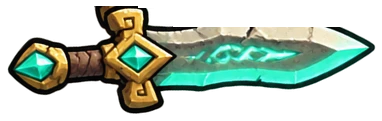
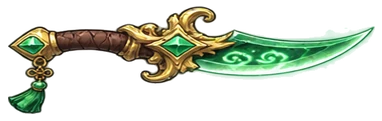
Redraw eight ancient weapons and refine wrist and mount layering

diff --git a/public/game.html b/public/game.html
@@ -509,7 +509,7 @@ async function idbAll(){const db=await idb();return new Promise(res=>{const out=
 async function idbPut(k,v){const db=await idb();return new Promise(res=>{const tx=db.transaction('a','readwrite');tx.objectStore('a').put(v,k);tx.oncomplete=()=>res();tx.onerror=()=>res()})}
 async function idbDel(k){const db=await idb();return new Promise(res=>{const tx=db.transaction('a','readwrite');tx.objectStore('a').delete(k);tx.oncomplete=()=>res();tx.onerror=()=>res()})}
 const BAKED={};
-async function loadAssets(){try{const r=await fetch('assets/manifest.json',{cache:'no-cache'});if(r.ok){const j=await r.json();for(const f of(j.files||[])){const n=f.replace(/\.(png|webp|jpe?g|gif)$/i,'');BAKED[n]='assets/'+f;setAsset(n,'assets/'+f+(n==='bld_fire'?'?v=2041':/^hero_/.test(n)?'?v=2040':/^(tile|obs)/.test(n)?'?v=2037':''))}}}catch(e){}
+async function loadAssets(){try{const r=await fetch('assets/manifest.json',{cache:'no-cache'});if(r.ok){const j=await r.json();for(const f of(j.files||[])){const n=f.replace(/\.(png|webp|jpe?g|gif)$/i,'');BAKED[n]='assets/'+f;setAsset(n,'assets/'+f+(n==='bld_fire'?'?v=2041':/^wpn_.*_5$/.test(n)?'?v=2057':/^hero_/.test(n)?'?v=2040':/^(tile|obs)/.test(n)?'?v=2037':''))}}}catch(e){}
  try{for(const[k,v]of await idbAll()){LOCAL[k]=1;setAsset(k,URL.createObjectURL(v))}}catch(e){}}
 const SHAPE={sprout:'머리에 새싹 잎이 난 동글동글한 몸',slime:'말랑한 젤리 슬라임',mush:'버섯 갓을 쓴 작은 몸',spider:'다리 8개 달린 벌레형',golem:'큼직한 돌덩이 골렘',tall:'키 큰 인간형(로브·갑옷)',bat:'날개를 편 박쥐형',chest:'보물상자(때리면 부서짐)',cactus:'선인장'};
 const HERO_LOOK={archer:'초록 후드와 가죽 조끼의 견습 궁수',farmer:'밀짚모자와 멜빵바지의 농부',mage:'파란 뾰족 모자와 로브의 수습 마법사',miner:'노란 안전모와 헤드랜턴, 갈색 작업복의 광부',monk:'주황 승복과 민머리의 수도승',pirate:'삼각 해적모자와 빨간 두건, 안대의 해적',viking:'뿔 달린 투구와 털망토, 갈색 수염의 바이킹',samurai:'빨간 일본 갑옷과 투구의 사무라이',icewitch:'하늘색 마녀 모자와 얼음 결정 장식 로브의 마녀',dragon:'붉은 용비늘 갑옷과 용머리 투구의 용기사',adv:'얼굴 없는 노란 마네킹 같은 기본 캐릭터, 몸 전체가 노란색',knight:'은색 갑옷, 가슴에 파란 천, 빨간 깃털 달린 투구',rogue:'짙은 보라색 후드와 옷, 어두운 얼굴에 빛나는 노란 눈 두 개'};
@@ -1751,7 +1751,13 @@ function gripInfo(im,k){let r=GI.get(im);if(r)return r;r={gx:GRIP[k]||.14,gy:.5,
  }catch(e){}GI.set(im,r);return r}
 const PISTOL_GRIPS=[[.19,.65],[.18,.67],[.115,.67],[.165,.70],[.16,.64]];
 const BUILTIN_GRIP={dagger:.235,sword:.22,mace:.23,spear:.27,axe:.23,bow:.235,staff:.235};
+const ANCIENT_GRIP={dagger:[.21,.12],sword:[.21,.12],mace:[.27,.16],spear:[.32,.20],axe:[.30,.20],bow:[.23,.45],gun:[.21,.21],staff:[.29,.18]};
 function weaponGrip(im,k,gr){
+ if(gr===5&&ANCIENT_GRIP[k]&&!LOCAL['wpn_'+k+'_5']&&AI('wpn_'+k+'_5')===im){
+  const [gx,bx]=ANCIENT_GRIP[k];
+  const gy=k==='gun'? .69:gripY(im,gx);
+  return{gx,gy,bx,by:k==='bow'?gripY(im,bx):gy,th:k==='gun'?.16:.12};
+ }
  if(!LOCAL['wpn_'+k+'_'+gr]&&(AI('wpn_'+k+'_'+gr)||!LOCAL['wpn_'+k])){
   if(k==='gun'){const [gx,gy]=PISTOL_GRIPS[gr]||PISTOL_GRIPS[0];return{gx,gy,th:.16,bx:gx,by:gy}}
   const gx=BUILTIN_GRIP[k]||.23,gy=gripY(im,gx);
@@ -1893,11 +1899,23 @@ function drawPlayer(){if(P.dead)return;const x=P.x,y=P.y,mv=P.moving,k=wType(),g
  fhx=fs.x+Math.cos(ua)*l1+Math.cos(ua+ea)*l2;
  fhy=fs.y+Math.sin(ua)*l1+Math.sin(ua+ea)*l2;
  const tx=fhx+Math.cos(wa)*off-Math.sin(wa)*pp,ty=fhy+Math.sin(wa)*off+Math.cos(wa)*pp;
+ let supportAngle=wa-Math.PI/2;
+ const supportSize=HI.fist*.96, supportDepth=supportSize*.34;
+ let backPose;
+ if(two){
+  // Solve the wrist under the cuff while keeping the glove in line with the forearm.
+  for(let i=0;i<3;i++){
+   const wx=tx-Math.cos(supportAngle)*supportDepth,wy=ty-Math.sin(supportAngle)*supportDepth;
+   backPose=IK(bs.x,bs.y,wx,wy,l1,l2);
+   const forearm=backPose[0]+backPose[1];
+   const turn=Math.atan2(Math.sin(forearm-supportAngle),Math.cos(forearm-supportAngle));
+   supportAngle+=turn*.8;
+  }
+  backPose=IK(bs.x,bs.y,tx-Math.cos(supportAngle)*supportDepth,ty-Math.sin(supportAngle)*supportDepth,l1,l2);
+  supportAngle=backPose[0]+backPose[1];
+ }
  const drawBack=()=>{
-  if(!two)return;
-  const wrist=rearWrist(fhx,fhy);
-  const [angle,bend]=IK(bs.x,bs.y,wrist.x,wrist.y,l1,l2);
-  seg2(bs.x,bs.y,angle,l1,bend,l2,5,L,HA('arm'));
+  if(backPose)seg2(bs.x,bs.y,backPose[0],l1,backPose[1],l2,5,L,HA('arm'));
  };
  // back=1: 아래(뒷)손은 손가락 대신 손등이 보이게 그림
  const fist=(x,y,w,angle,back)=>{
@@ -1908,7 +1926,7 @@ function drawPlayer(){if(P.dead)return;const x=P.x,y=P.y,mv=P.moving,k=wType(),g
  const drawArm=()=>{
   const hand=seg2(fs.x,fs.y,ua,l1,ea,l2,5.3,L,HA('arm'));
   ctx.save();ctx.translate(hand.x,hand.y);ctx.rotate(wa);drawWeapon(k,gc,gr>=2,gr);ctx.restore();
-  if(two)fist(tx-Math.sin(wa)*.5,ty+Math.cos(wa)*.5,HI.fist*.96,wa-Math.PI/2,1);
+  if(two)fist(tx,ty,supportSize,supportAngle,1);
   fist(hand.x,hand.y,HI.fist,wa+Math.PI/2);
   return hand;
  };
@@ -2368,7 +2386,7 @@ function draw(){queueMicrotask(()=>refreshRewardNotices(true));const B=$('mbody'
    B.innerHTML=`<div style="position:relative;text-align:center;margin:2px 0 8px">${U('rank_banner')?`<div class="ts" style="${bg('rank_banner')}padding:10px 0 18px;font-size:20px;color:#fff">${t==='pow'?'전투력 랭킹':'도전의 탑 랭킹'}</div>`:''}</div><div class="feature-head ts" style="${bg('rank_row')}${U('rank_row')?'padding:10px 18px;color:#fff;':''}">${featureImage('rank')}<div><b style="color:#ffe066">${U('rank_banner')?'내 순위':(t==='pow'?'전투력 랭킹':'도전의 탑 랭킹')}</b><small style="color:#fff">${L.my?L.my.rank+'위 · '+fv(L.my.v):'아직 기록이 없어요'}</small></div></div>`+(L.list.length?L.list.map((r,i)=>row(r,i,r.me)).join(''):'<div class="note">아직 기록이 없어요</div>')}}
  else if(panel==='market'){$('mtitle').textContent='거래소';cur(['gem','gold']);B.innerHTML=marketPanel();F.innerHTML='<div class="tabs">'+[['buy','구매'],['sell','판매'],['mine','내 등록']].map(([k,n])=>'<button class="tab '+(MK.tab===k?'on':'')+'" data-a="mkt:'+k+'">'+n+'</button>').join('')+'</div>'}
  else if(panel==='menu'){$('mtitle').textContent='메뉴';$('mcur').innerHTML='';
-  B.innerHTML='<div class="feature-shortcuts"><button data-a="collection">'+featureImage('book')+'도감</button><button data-a="tasks:daily">'+featureImage('missions')+'일일 활동</button><button data-a="tasks:weekly">'+featureImage('weekly')+'주간 활동</button><button data-a="market">'+featureImage('market')+'거래소</button><button data-a="rank">'+featureImage('rank')+'랭킹</button></div>'+(window.IS_ADMIN?'':'<!--')+`<div class="row" style="border-color:#ffd23c"><div class="rin"><h4>🛠 관리자 모드 ${S.admin?'<b style="color:#7be36a">켜짐</b>':''}</h4><p>재화 무한 · 모든 무기 · 영웅 · 레벨 · 지역 테스트용</p></div><button class="btn eq" data-a="goadmin">열기</button></div>`+(window.IS_ADMIN?'':'-->')+`<div class="row"><div class="rin"><h4>계정</h4><p>${window.NET?NET.nick:''} · 저장하고 로그인 화면으로</p></div><button class="btn no" data-a="logout" style="min-width:76px">로그아웃</button></div><div class="row"><div class="rin"><h4>닉네임 변경</h4><p>한글·영어·숫자 2~8자 · 다른 사람과 겹칠 수 없어요</p><input id="nickin" maxlength="8" value="${window.NET?NET.nick:''}" style="margin-top:6px;width:100%;font:inherit;font-size:16px;padding:7px 10px;border-radius:10px;border:2px solid #1c1830"></div><button class="btn" data-a="nickset" style="min-width:64px">변경</button></div><div class="row"><div class="rin"><h4>소리</h4><p>효과음 · 배경 소리(바람·물·불·파도)</p></div><button class="btn ${window.SFX&&SFX.on.sfx?'':'no'}" data-a="snd:sfx" style="min-width:64px">효과음 ${window.SFX&&SFX.on.sfx?'켜짐':'꺼짐'}</button><button class="btn ${window.SFX&&SFX.on.amb?'':'no'}" data-a="snd:amb" style="min-width:64px">배경 ${window.SFX&&SFX.on.amb?'켜짐':'꺼짐'}</button></div><div class="row"><div class="rin"><h4>모루 한 번에 만들기</h4><p>모루 버튼을 한 번 누를 때 만드는 개수</p></div>${[1,5,10].map(n=>`<button class="btn ${(S.cn||1)===n?'':'eq'}" data-a="cn:${n}" style="min-width:44px;padding:6px 4px 9px">${n}개</button>`).join('')}</div>`+(window.IS_ADMIN?`<div class="row"><div class="rin"><h4>이미지 넣기</h4><p>캐릭터·몬스터·버튼·아이콘 등 모든 그림을 내 이미지로 바꾸기</p></div><button class="btn eq" data-a="goassets">열기</button></div>`:'')+`<div class="note" style="color:#ffd23c">버전 1119-2056</div><div class="note">진행 상황은 서버에 자동 저장돼요.<br>이동: 화면을 누른 채 끌기 (PC는 WASD)<br>공격: 몬스터 가까이 가면 자동<br>가방 속 물건은 기지에 돌아오면 입금돼요.<br>금화·크리스탈·보석·오브 모두 가방에 담겨요. 가득 차면 더 주울 수 없어요.</div>`+(window.IS_ADMIN?`<div class="row"><div class="rin"><h4>처음부터 다시</h4><p>모든 진행 상황을 지웁니다.</p></div><button class="btn no" data-a="reset">${resetArm?'한 번 더 누르기':'초기화'}</button></div>`:'')}}
+  B.innerHTML='<div class="feature-shortcuts"><button data-a="collection">'+featureImage('book')+'도감</button><button data-a="tasks:daily">'+featureImage('missions')+'일일 활동</button><button data-a="tasks:weekly">'+featureImage('weekly')+'주간 활동</button><button data-a="market">'+featureImage('market')+'거래소</button><button data-a="rank">'+featureImage('rank')+'랭킹</button></div>'+(window.IS_ADMIN?'':'<!--')+`<div class="row" style="border-color:#ffd23c"><div class="rin"><h4>🛠 관리자 모드 ${S.admin?'<b style="color:#7be36a">켜짐</b>':''}</h4><p>재화 무한 · 모든 무기 · 영웅 · 레벨 · 지역 테스트용</p></div><button class="btn eq" data-a="goadmin">열기</button></div>`+(window.IS_ADMIN?'':'-->')+`<div class="row"><div class="rin"><h4>계정</h4><p>${window.NET?NET.nick:''} · 저장하고 로그인 화면으로</p></div><button class="btn no" data-a="logout" style="min-width:76px">로그아웃</button></div><div class="row"><div class="rin"><h4>닉네임 변경</h4><p>한글·영어·숫자 2~8자 · 다른 사람과 겹칠 수 없어요</p><input id="nickin" maxlength="8" value="${window.NET?NET.nick:''}" style="margin-top:6px;width:100%;font:inherit;font-size:16px;padding:7px 10px;border-radius:10px;border:2px solid #1c1830"></div><button class="btn" data-a="nickset" style="min-width:64px">변경</button></div><div class="row"><div class="rin"><h4>소리</h4><p>효과음 · 배경 소리(바람·물·불·파도)</p></div><button class="btn ${window.SFX&&SFX.on.sfx?'':'no'}" data-a="snd:sfx" style="min-width:64px">효과음 ${window.SFX&&SFX.on.sfx?'켜짐':'꺼짐'}</button><button class="btn ${window.SFX&&SFX.on.amb?'':'no'}" data-a="snd:amb" style="min-width:64px">배경 ${window.SFX&&SFX.on.amb?'켜짐':'꺼짐'}</button></div><div class="row"><div class="rin"><h4>모루 한 번에 만들기</h4><p>모루 버튼을 한 번 누를 때 만드는 개수</p></div>${[1,5,10].map(n=>`<button class="btn ${(S.cn||1)===n?'':'eq'}" data-a="cn:${n}" style="min-width:44px;padding:6px 4px 9px">${n}개</button>`).join('')}</div>`+(window.IS_ADMIN?`<div class="row"><div class="rin"><h4>이미지 넣기</h4><p>캐릭터·몬스터·버튼·아이콘 등 모든 그림을 내 이미지로 바꾸기</p></div><button class="btn eq" data-a="goassets">열기</button></div>`:'')+`<div class="note" style="color:#ffd23c">버전 1119-2057</div><div class="note">진행 상황은 서버에 자동 저장돼요.<br>이동: 화면을 누른 채 끌기 (PC는 WASD)<br>공격: 몬스터 가까이 가면 자동<br>가방 속 물건은 기지에 돌아오면 입금돼요.<br>금화·크리스탈·보석·오브 모두 가방에 담겨요. 가득 차면 더 주울 수 없어요.</div>`+(window.IS_ADMIN?`<div class="row"><div class="rin"><h4>처음부터 다시</h4><p>모든 진행 상황을 지웁니다.</p></div><button class="btn no" data-a="reset">${resetArm?'한 번 더 누르기':'초기화'}</button></div>`:'')}}
 function act(a){const[k,v]=a.split(':');if(k==='gochap'){goChapter(+v);return}
  if(k==='nickset'){const n=(document.getElementById('nickin')||{}).value?.trim()||'';fetch('/api/nick',{method:'POST',headers:{'Content-Type':'application/json'},body:JSON.stringify({token:localStorage.getItem('xp_token'),nick:n})}).then(r=>r.json().then(j=>[r.ok,j])).then(([ok,j])=>{if(!ok){toast(j.err||'변경 실패');return}localStorage.setItem('xp_nick',j.nick);if(window.NET)NET.nick=j.nick;toast('닉네임이 '+j.nick+'(으)로 바뀌었어요');draw()}).catch(()=>toast('서버에 연결할 수 없어요'));return}
  if(k==='challengeTower'){window.TOWER?.open();return}
@@ -2489,7 +2507,7 @@ qlv();loadAssets();requestAnimationFrame(frame);
 <script src="defense.js?v=10"></script>
 <script src="raid.js?v=12"></script>
 <script src="pet.js?v=11"></script>
-<script src="mount.js?v=24"></script>
+<script src="mount.js?v=25"></script>
 <script src="unlock.js?v=3"></script>
 <script src="shop2.js?v=5"></script>
 <script src="events.js?v=1"></script>

diff --git a/public/mount.js b/public/mount.js
@@ -145,9 +145,33 @@ window.MOUNT = (() => {
     return legInset(rig, anchor, bodyHeight) + (rig.fl[1] - anchor[1]) * bodyHeight;
   }
 
+  const NEAR_LEGS = new WeakMap();
+  function nearLeg(source) {
+    let art = NEAR_LEGS.get(source);
+    if (art) return art;
+    art = document.createElement('canvas');
+    art.width = source.width; art.height = source.height;
+    const g = art.getContext('2d');
+    g.drawImage(source, 0, 0);
+    g.globalCompositeOperation = 'destination-in';
+    const fade = g.createLinearGradient(0, 0, 0, art.height * .37);
+    fade.addColorStop(0, 'rgba(0,0,0,0)');
+    fade.addColorStop(.38, 'rgba(0,0,0,.1)');
+    fade.addColorStop(1, 'rgba(0,0,0,1)');
+    g.fillStyle = fade; g.fillRect(0, 0, art.width, art.height);
+    NEAR_LEGS.set(source, art);
+    return art;
+  }
+
   function phCard(k) { const key = k + ':c' + (AI('mount_' + k + '_body') ? 1 : 0); if (PH[key]) return PH[key]; const c = document.createElement('canvas'); c.width = 220; c.height = 220; const g = c.getContext('2d'); const b = part(k, 'body'), l = part(k, 'leg'), r = RIG[k], w = 190, h = w * b.height / b.width, x0 = 15, y0 = r.fly ? 90 : 40;
-    { const lh = w * r.leg, lw = lh * l.width / l.height; for (const a of [r.bl, r.fl]) for (const o of (r.biped ? [a === r.bl ? -5 : 2] : [-5, 5])) g.drawImage(l, x0 + a[0] * w - lw / 2 + o, y0 + a[1] * h - 6 - legInset(r, a, h), lw, lh + legExtension(r, a, h)) }
-    g.drawImage(b, x0, y0, w, h); if (r.wing) { const wi = part(k, 'wing'), ww = w * r.wl * .8, wh = ww * wi.height / wi.width; g.save(); g.translate(x0 + r.wing[0] * w, y0 + r.wing[1] * h); g.scale(-1, 1); g.drawImage(wi, -ww * .06, -wh * .92, ww, wh); g.restore() }
+    const lh = w * r.leg, lw = lh * l.width / l.height;
+    const cardLeg = (a, far) => g.drawImage(far ? l : nearLeg(l), x0 + a[0] * w - lw / 2 + (far ? -5 : 2), y0 + a[1] * h - (far ? 9 : 6) - legInset(r, a, h), lw, lh + legExtension(r, a, h));
+    if (!r.biped) cardLeg(r.fl, true);
+    cardLeg(r.bl, true);
+    g.drawImage(b, x0, y0, w, h);
+    cardLeg(r.fl, false);
+    if (!r.biped) cardLeg(r.bl, false);
+    if (r.wing) { const wi = part(k, 'wing'), ww = w * r.wl * .8, wh = ww * wi.height / wi.width; g.save(); g.translate(x0 + r.wing[0] * w, y0 + r.wing[1] * h); g.scale(-1, 1); g.drawImage(wi, -ww * .06, -wh * .92, ww, wh); g.restore() }
     PH[key] = c; c.url = c.toDataURL(); return c }
   const part = (k, p) => AI('mount_' + k + '_' + p) || (p === 'body' ? phBody(k) : p === 'leg' ? phLeg(k) : phWing(k));
   const url = k => AURL['mount_' + k] || AURL['mount_' + k + '_card'] || phCard(k).url;
@@ -171,15 +195,16 @@ window.MOUNT = (() => {
       ctx.save(); ctx.translate(ax + (far ? -5 : 2), ay - (far ? 5 : 2) - legInset(r, a, h));
       ctx.rotate(-ang - (tucked && mv ? tucked : 0));
       if (far) ctx.filter = 'brightness(.78)';
-      ctx.drawImage(leg, -legW / 2, 0, legW, length);
+      ctx.drawImage(far ? leg : nearLeg(leg), -legW / 2, 0, legW, length);
       ctx.restore();
     };
     const flap = mv ? Math.sin(T * 13) : Math.sin(T * 4) * .5;
     const Wg = (far) => { if (!r.wing) return; const wi = part(m.k, 'wing'), ww = W * r.wl, wh = ww * wi.height / wi.width; ctx.save(); ctx.translate(r.wing[0] * W + (far ? 8 : 0), r.wing[1] * h); ctx.scale(-1, 1); ctx.rotate(-.1 - flap * .6 + (far ? -.15 : 0)); if (far) ctx.filter = 'brightness(.7)'; ctx.drawImage(wi, -ww * .06, -wh * .92, ww, wh); ctx.restore() };
     // 대각선 다리끼리 같이 움직이는 걸음(앞-먼쪽 & 뒤-가까운쪽)
-    Wg(true); if (!r.biped) { L(r.fl, Math.PI, true); L(r.bl, 0, true) }
-    L(r.fl, 0, false); L(r.bl, Math.PI, !!r.biped);
+    Wg(true); if (!r.biped) L(r.fl, Math.PI, true);
+    L(r.bl, r.biped ? Math.PI : 0, true);
     ctx.drawImage(body, 0, 0, W, h);
+    L(r.fl, 0, false); if (!r.biped) L(r.bl, Math.PI, false);
     Wg(false);
     ctx.restore();
     const ox = (r.seat[0] - .5) * W, oy = (r.seat[1] - .6) * h;
